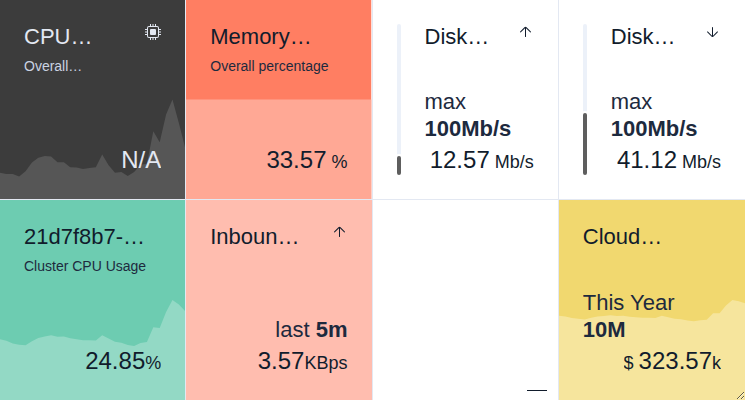
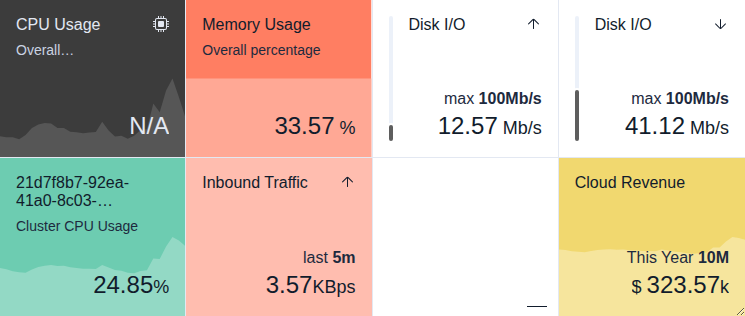
Use new preview size for large spacing test

diff --git a/e2e/tests/metric_stories.test.ts b/e2e/tests/metric_stories.test.ts
@@ -211,12 +211,26 @@ test.describe('Metric', () => {
     test('basic story renders with large spacing', async ({ page }) => {
       await common.expectChartAtUrlToMatchScreenshot(page)(
         `http://localhost:9001/?path=/story/metric-alpha--basic&globals=theme:light&knob-spacing=large`,
+        {
+          action: async () => await common.setResizeDimensions(page)({ height: 158, width: 300 }),
+        },
       );
     });
 
     test('grid story renders with large spacing', async ({ page }) => {
       await common.expectChartAtUrlToMatchScreenshot(page)(
         `http://localhost:9001/?path=/story/metric-alpha--grid&globals=theme:light&knob-spacing=large`,
+        {
+          action: async () => {
+            await page
+              .locator('#story-root > div')
+              .first()
+              .evaluate((el) => {
+                (el as HTMLElement).style.height = `${158 * 2}px`;
+                (el as HTMLElement).style.width = `${300 * 4}px`;
+              });
+          },
+        },
       );
     });
 
@@ -232,6 +246,9 @@ test.describe('Metric', () => {
     test('layout story renders with large spacing', async ({ page }) => {
       await common.expectChartAtUrlToMatchScreenshot(page)(
         `http://localhost:9001/?path=/story/metric-alpha--layout&globals=theme:light&knob-Metric spacing_Text configuration and position=large`,
+        {
+          action: async () => await common.setResizeDimensions(page)({ height: 158, width: 300 }),
+        },
       );
     });
   });